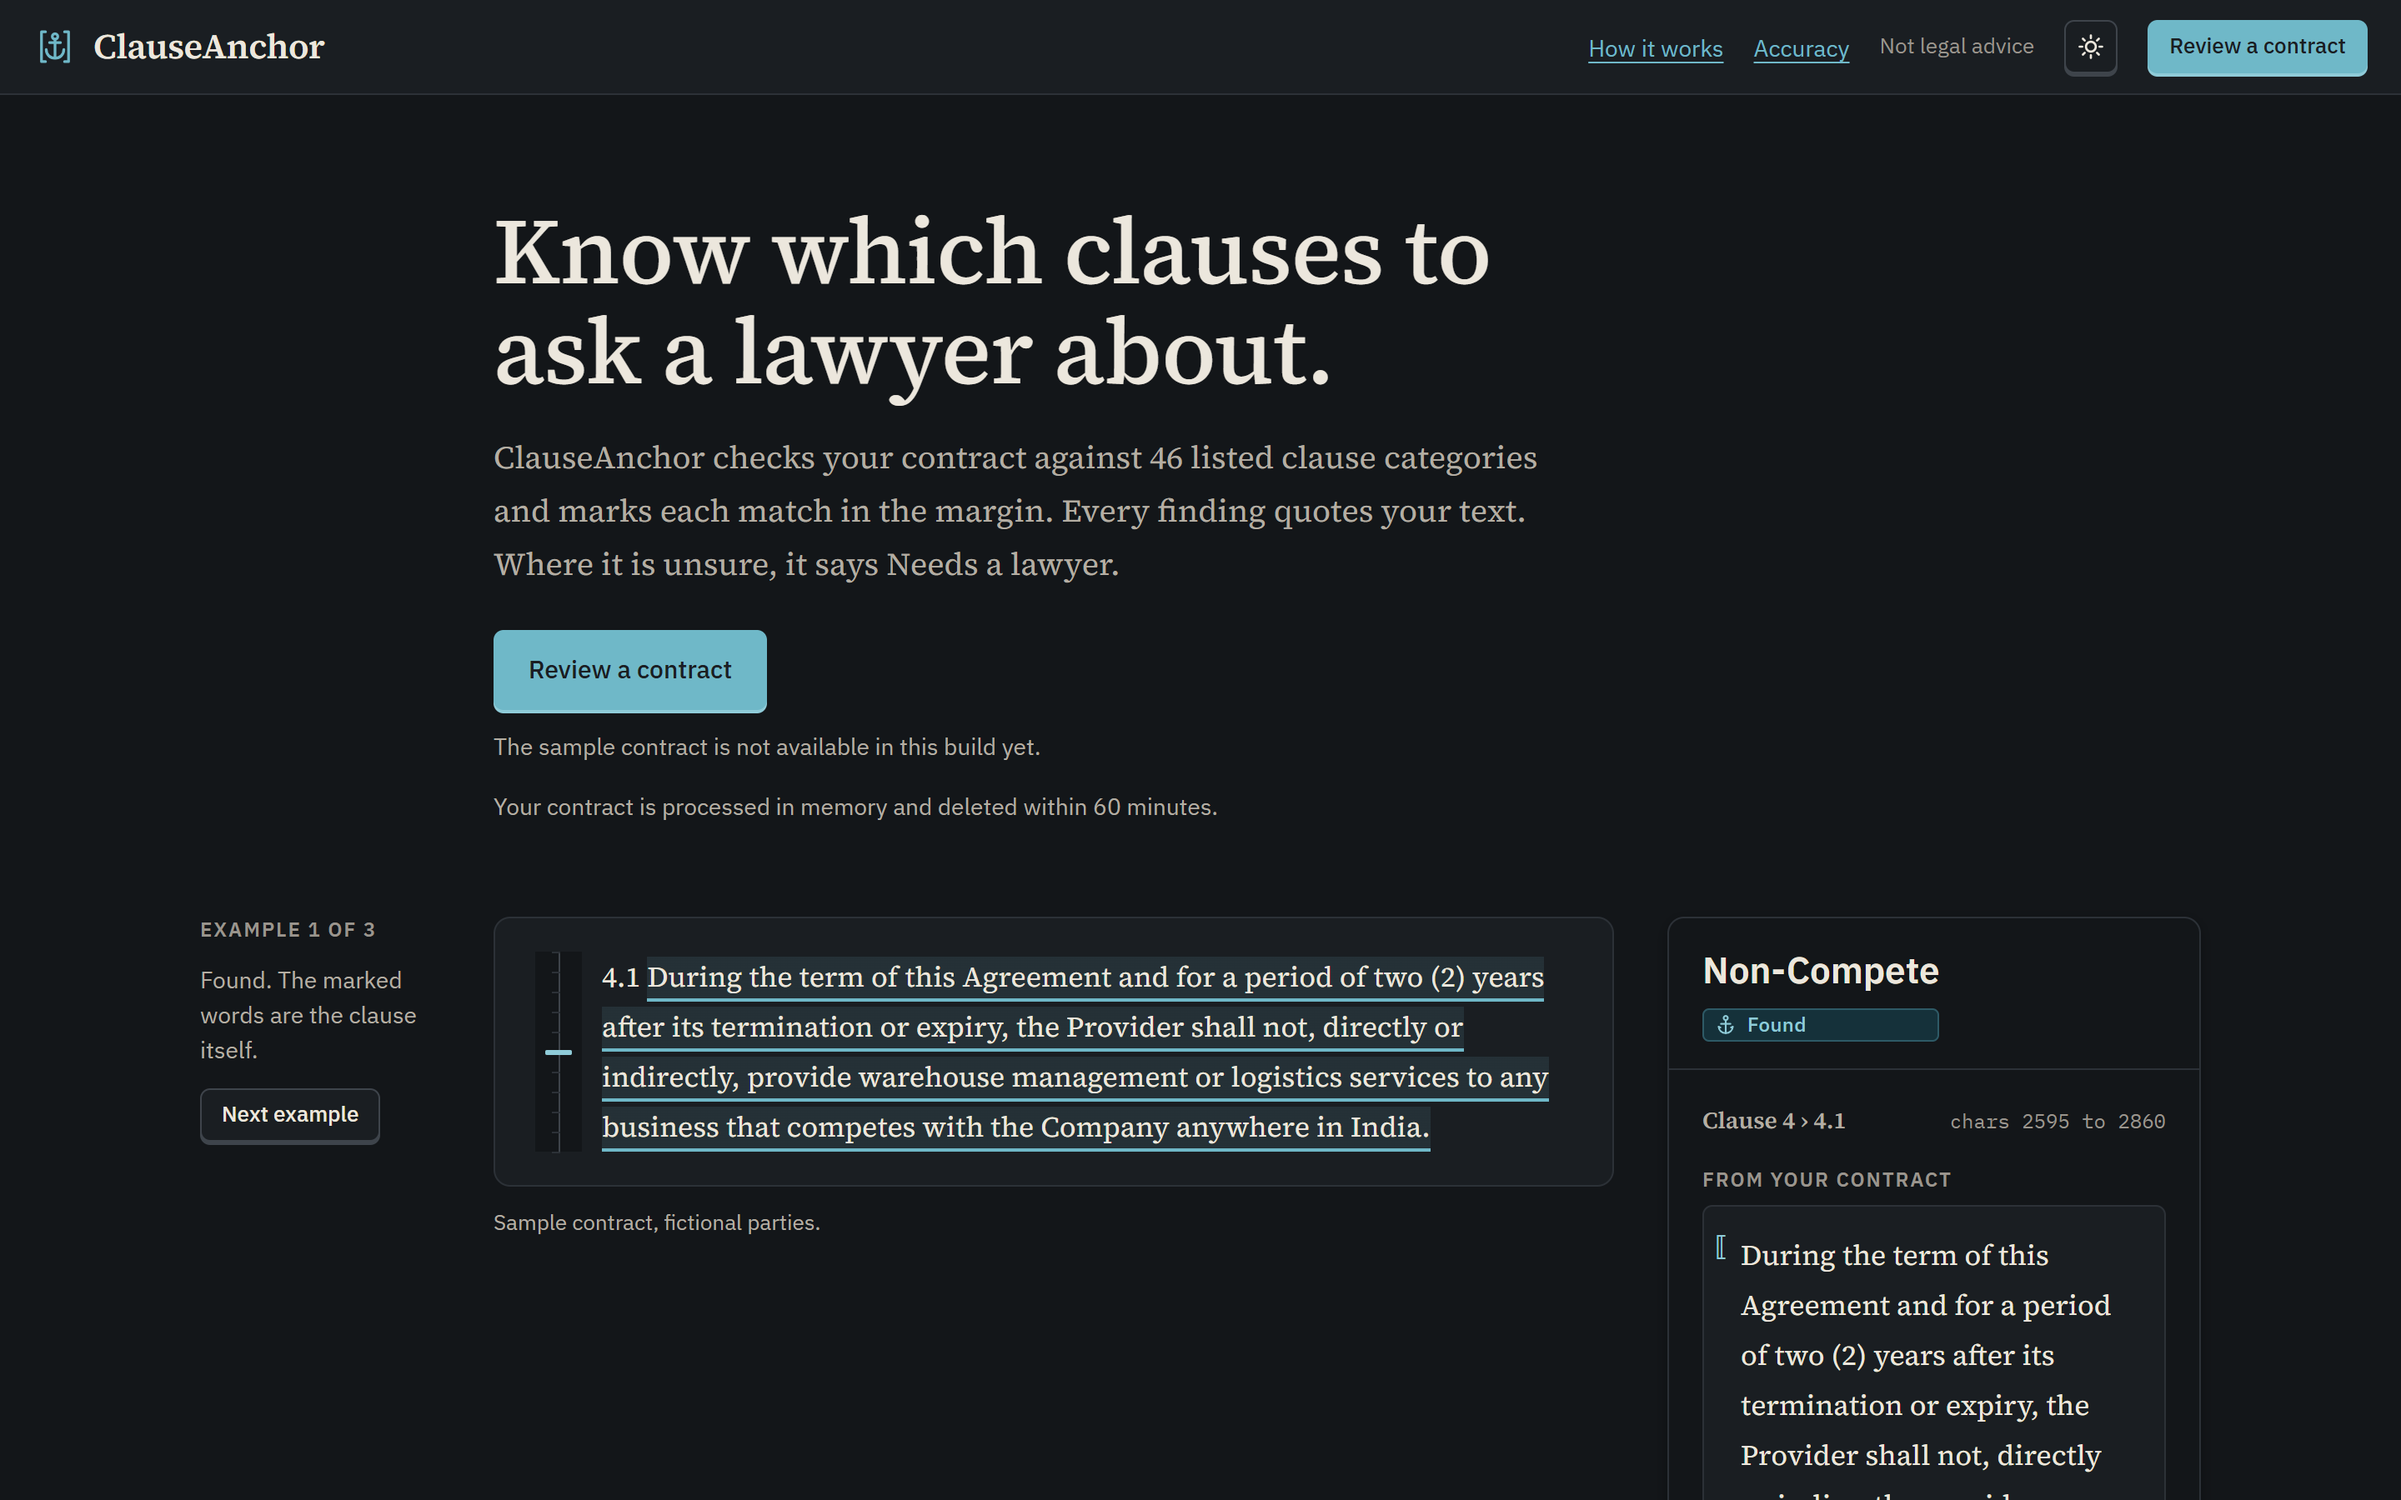
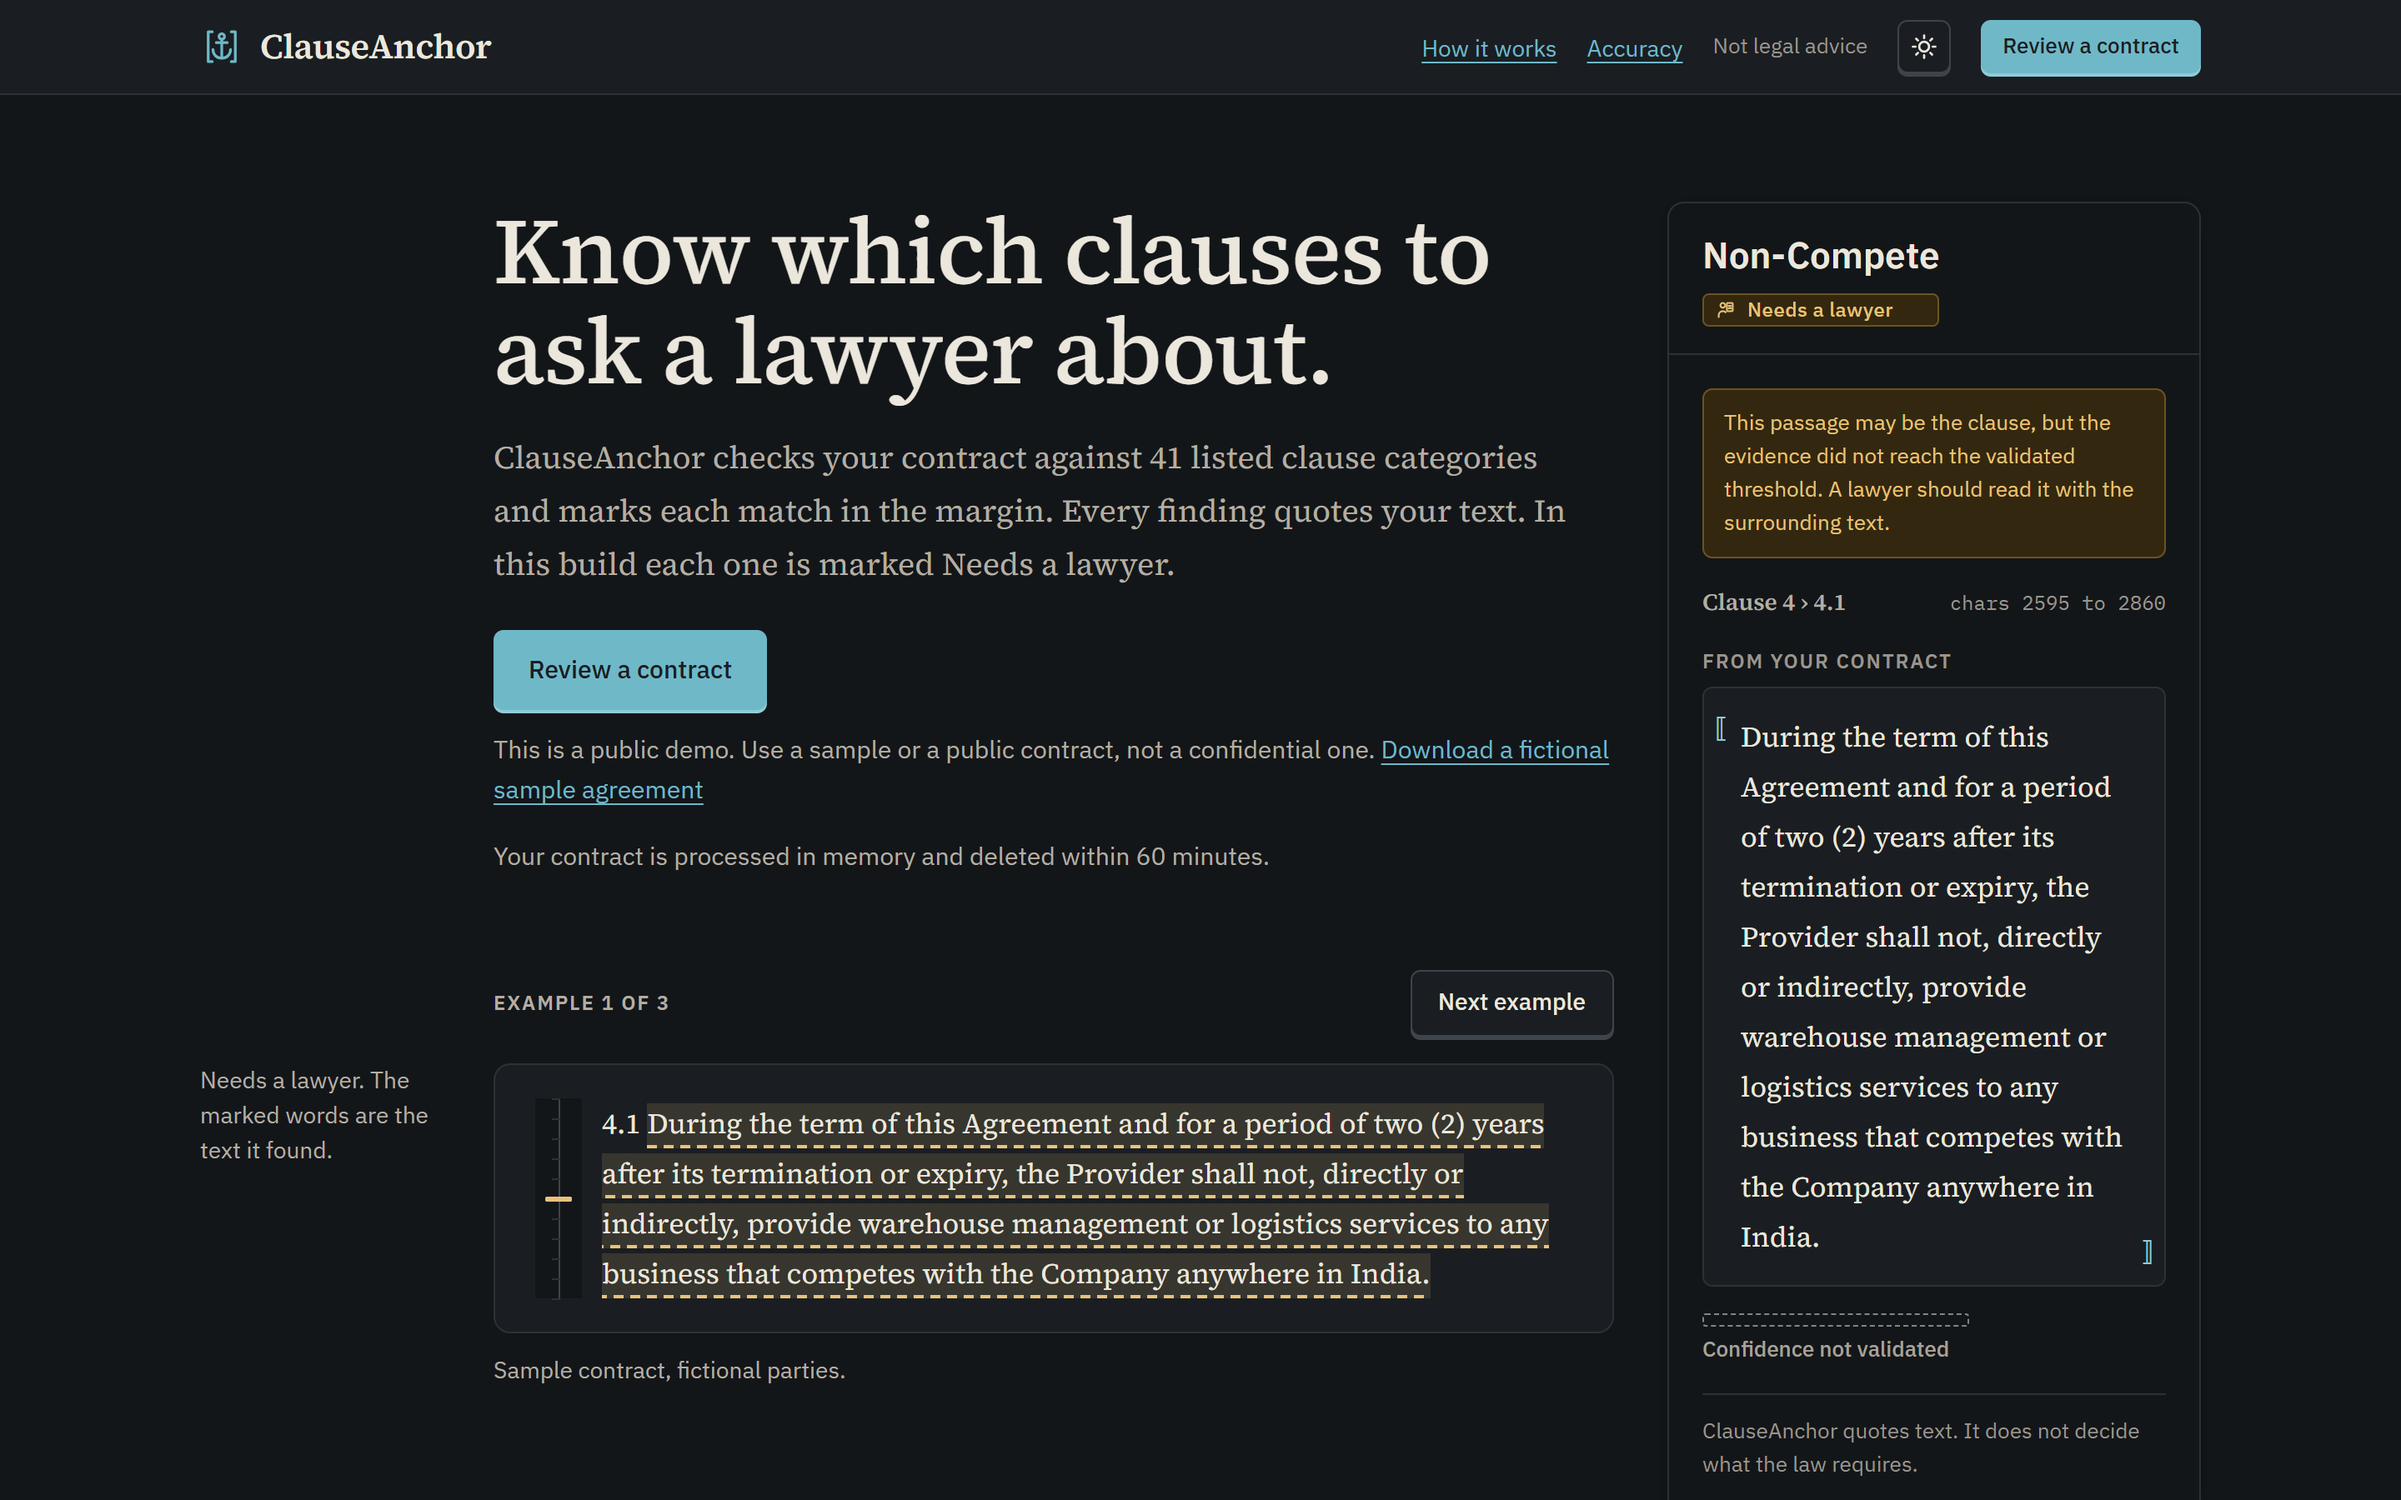
docs: retake the README screenshots after the UI pass
Retake landing and the social preview, add how-it-works, fix the counts.

diff --git a/README.md b/README.md
@@ -22,8 +22,8 @@
   <img src="https://img.shields.io/badge/React-19.2.4-149ECA?logo=react&logoColor=white" alt="React 19.2.4">
   <img src="https://img.shields.io/badge/TypeScript-5.9.3-3178C6?logo=typescript&logoColor=white" alt="TypeScript 5.9.3">
   <img src="https://img.shields.io/badge/model-RoBERTa--base-FFD21E?logo=huggingface&logoColor=black" alt="Model: RoBERTa-base">
-  <img src="https://img.shields.io/badge/backend_tests-1787_passed-2E7D32" alt="Backend tests: 1787 passed">
-  <img src="https://img.shields.io/badge/frontend_tests-136_passed-2E7D32" alt="Frontend tests: 136 passed">
+  <img src="https://img.shields.io/badge/backend_tests-1788_passed-2E7D32" alt="Backend tests: 1788 passed">
+  <img src="https://img.shields.io/badge/frontend_tests-170_passed-2E7D32" alt="Frontend tests: 170 passed">
   <a href="LICENSE"><img src="https://img.shields.io/badge/license-MIT-lightgrey" alt="MIT license"></a>
 </p>
 
@@ -40,11 +40,11 @@
 | **Input** | PDF or DOCX with selectable text, up to 10 MiB, 100 PDF pages and 500,000 characters |
 | **Your file** | Held in memory and deleted within 60 minutes, or at once with Delete document. The API writes no part of it to disk |
 | **Hosting** | One Docker image on Azure Container Apps, Central India, 2 vCPU and 4 GiB, scaled from 0 to 1 replica |
-| **Tests** | 1787 backend (27 skipped) and 136 frontend |
+| **Tests** | 1788 backend (27 skipped) and 170 frontend |
 
 **Live demo:** https://clauseanchor.icystone-c7631062.centralindia.azurecontainerapps.io/
 
-The app scales to zero, so the first visit after a quiet spell takes 1 to 3 minutes. The built-in sample contract is not available in this build yet, so upload a public or fictional agreement. Use sample contracts, not confidential ones.
+The app scales to zero, so the first visit after a quiet spell takes 1 to 3 minutes. The built-in sample contract is not available in this build yet. The landing page and the first step link a fictional sample agreement to download and upload, or you can upload a public one. This is a public demo, so use sample contracts, not confidential ones.
 
 ## Overview
 
@@ -111,24 +111,34 @@ The direction is called Marginalia: a finding looks like a careful reader's mark
   <a href="https://clauseanchor.icystone-c7631062.centralindia.azurecontainerapps.io/">
     <picture>
       <source media="(prefers-color-scheme: dark)" srcset="docs/assets/readme/landing-dark.png">
-      <img src="docs/assets/readme/landing-light.png" alt="ClauseAnchor landing page above the fold: the headline Know which clauses to ask a lawyer about, a short description, the Review a contract button, and the first of three hero examples, a Non-Compete passage from a fictional contract at characters 2595 to 2860 with its detail panel" width="95%">
+      <img src="docs/assets/readme/landing-light.png" alt="ClauseAnchor landing page above the fold: the headline Know which clauses to ask a lawyer about, a description that says each finding in this build is marked Needs a lawyer, the Review a contract button with a link to download a fictional sample agreement, and Example 1 of 3, a Non-Compete passage from a fictional contract at characters 2595 to 2860, beside a detail panel with the Needs a lawyer label and Confidence not validated" width="95%">
     </picture>
   </a>
 </p>
-<p align="center"><em>The landing page above the fold; its hero example is a prepared quote from a fictional contract, and a live review returns Needs a lawyer only.</em></p>
+<p align="center"><em>The landing page above the fold. The hero example quotes a fictional contract and shows what a live review returns: Needs a lawyer, with Confidence not validated.</em></p>
+
+<p align="center">
+  <a href="https://clauseanchor.icystone-c7631062.centralindia.azurecontainerapps.io/#/how-it-works">
+    <picture>
+      <source media="(prefers-color-scheme: dark)" srcset="docs/assets/readme/how-it-works-dark.png">
+      <img src="docs/assets/readme/how-it-works-light.png" alt="ClauseAnchor How it works page: the heading and a short introduction, a notice that the app is not legal advice, an On this page list of eight sections from § 1 Reading the contract to § 8 Credits, and the text of § 1 with the start of § 2, Looking for 41 kinds of clause" width="95%">
+    </picture>
+  </a>
+</p>
+<p align="center"><em>The How it works page: what happens to a contract, what the marks mean and where the limits are.</em></p>
 
 ## Features
 
 - **Quotes, never paraphrases.** Every string on screen is quoted contract text or a short label. The app writes no legal text.
 - **Exact offsets.** Each finding carries a start and an end into the canonical text, shown as `chars 3124 to 3336`.
 - **Status without a verdict.** Needs a lawyer and Confidence not validated on every live finding. A fixed scope notice sits on every result: "Unhighlighted text is not a safety assessment."
-- **46 listed categories.** Pick the ones to check in step 3 of the start flow, grouped under seven headings.
+- **46 listed categories, 41 that run.** Pick the ones to check in step 3 of the start flow, grouped under seven headings. The five India categories are not available in this build, and the Reader says so.
 - **PDF and DOCX parsing.** PDF columns, headers, footers and page numbers (marked as decoration, never deleted). DOCX auto-numbering, tables, text boxes, headers, footers and footnotes.
 - **Limits for hostile files.** One capped child process per parse, a 100-page limit, a decoded-content budget and archive checks against zip bombs.
 - **It says when it read only part.** A scanned page, an embedded object or a form field with text sets `partial`. The Reader then says part of the document could not be read.
 - **Private by default.** Memory only, 60-minute expiry, Delete document at any time, no cookies or local storage, and no request to a third party.
 - **Reader navigation.** Keyboard stepping between passages, a clickable margin ruler, a passage counter and a category filter.
-- **Accessible.** Contrast pairs tested, 44 px targets, a forced-colours fallback for the marks, reduced motion, and no axe violation in 154 captures during the frontend review.
+- **Accessible.** Contrast pairs tested, 44 px targets, a forced-colours fallback for the marks, reduced motion, and no axe violation in 154 captures during the frontend review or in 110 runs after the UI pass.
 - **Light and dark themes**, following the system setting with a toggle.
 - **One image, tested before it ships.** The CI workflow runs a real analysis inside the container before it publishes.
 
@@ -294,11 +304,11 @@ The full setup, with real mode, the environment variables and the command-line p
 1. **Not legal advice.** ClauseAnchor points to text in your contract and does not say what the law requires. Unhighlighted text is not a safety assessment.
 2. **Confidence is not validated.** All 46 categories are `not_validated`. Every finding is a review candidate with no confidence figure, so this build shows no Found result and no Not found result.
 3. **The output is noisy.** About four in five candidates are not matches, a contract averages 62.52 false highlights, and 1,176 of 4,182 questions were processing-incomplete in the evaluation. No time-saving claim is made.
-4. **Some features are not in this build.** Party binding and polarity, the PDF report, the Accuracy figures, the sample contract and the manual-review list belong to Phase 3. The app marks each as not available.
+4. **Some features are not in this build.** Party binding and polarity, the PDF report, the Accuracy figures, the built-in sample contract and the manual-review list belong to Phase 3. The app marks each as not available.
 5. **Narrow input.** English text in a PDF or DOCX with selectable text. CUAD, an English-language dataset, supplied the fine-tuning data and the test set, so the figures cover no other language. The API refuses a file that is scanned throughout, password protected or carries tracked changes. The limits are 10 MiB and 100 PDF pages.
 6. **The evaluation is CUAD only.** The five India categories are listed, unavailable and have no measured figures.
 7. **A public demo with small limits.** Cold starts take 1 to 3 minutes. One replica holds every session in memory, and a restart empties it. The API allows 25 live sessions with 5 documents each, and there is no per-client rate limit.
-8. **The landing hero is a prepared example.** It shows a Found status on a fictional contract. Live reviews return Needs a lawyer only.
+8. **The landing hero is a prepared example.** It quotes a fictional contract and shows the status a live review returns: Needs a lawyer, with Confidence not validated.
 
 ClauseAnchor is a research prototype. Do not rely on it for a decision about a real contract; ask a lawyer.
 
